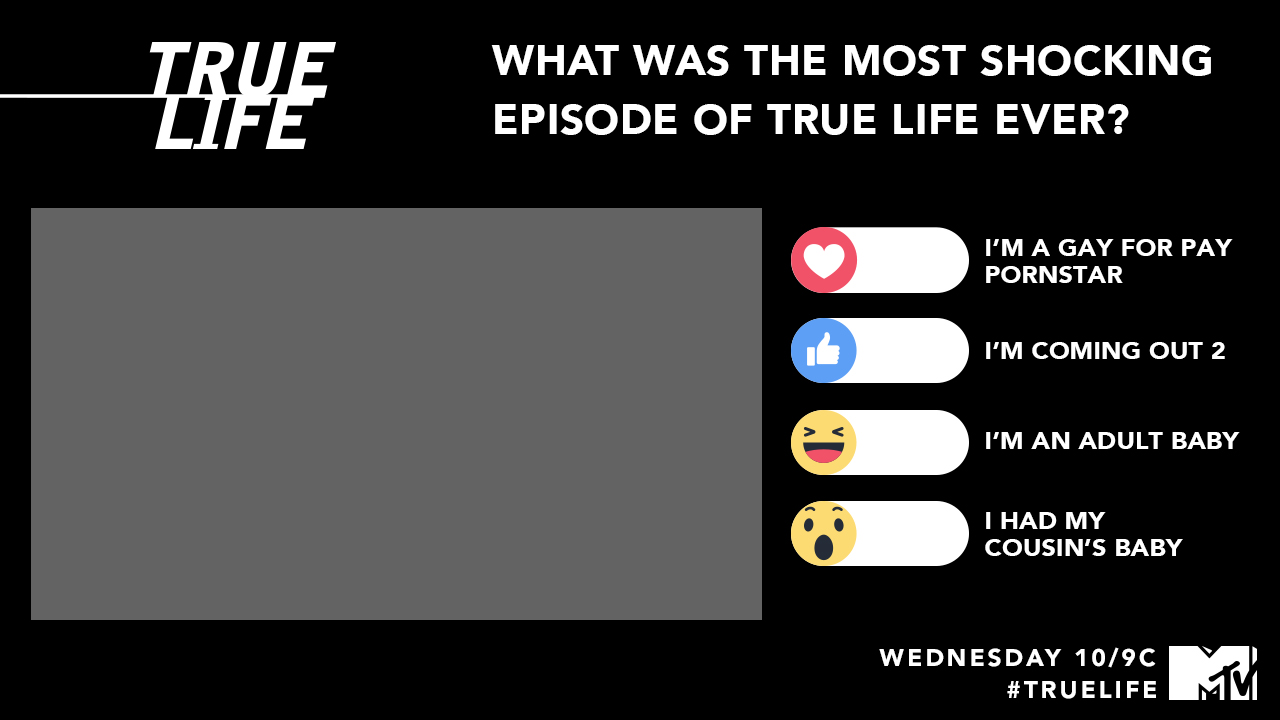
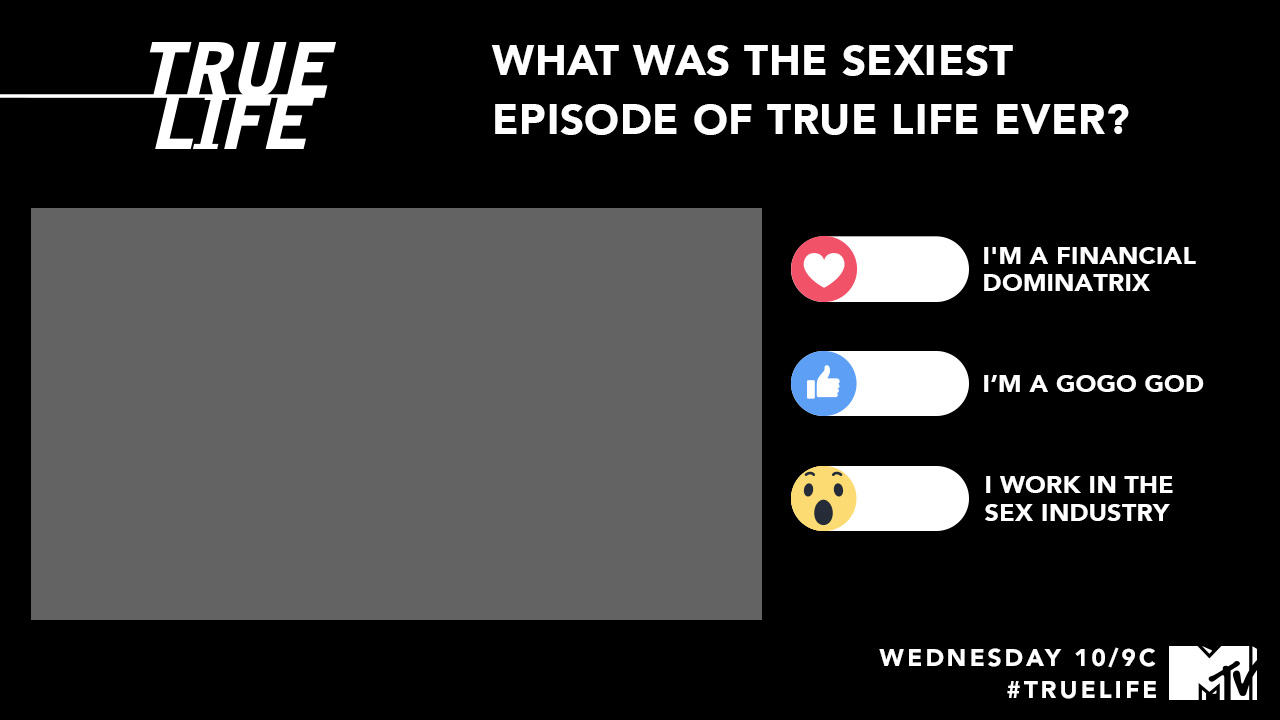
updated true life poll

Changed region(s): [[0.5938, 0.3056, 0.9688, 0.7944], [0.6562, 0.0611, 0.9688, 0.1222], [0.75, 0.3361, 0.9688, 0.4278]]

diff --git a/tl.html b/tl.html
@@ -20,23 +20,23 @@
     
     #love {
     	display: block;
-        top: 227px;
+        top: 235px;
       }
     
     #like {
     	display: block;
-            top: 318px;
+            top: 350px;
       }
 
     #haha {
-    	display: block;
+    	display: none;
            top: 410px;
 
       }
 
     #wow {
     	display: block;
-           top: 501px;
+           top: 465px;
       }
     </style>
 </head>
